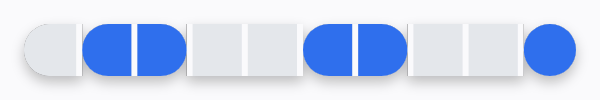
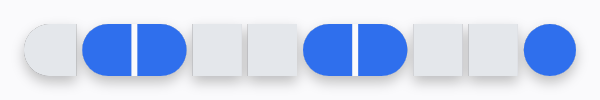
Stop the shadow from sealing unpainted gaps
A gap belongs to the shadow's silhouette only where the paint connects
the cells around it: under a painted divider, and inside an EACH_RUN
run, including the joint where a run flows into its partial. A
transparent gap between separate pieces is now an opening the
neighbours' blur spills into, so each piece casts like its own object.
Previously every gap was bridged, which enclosed the slit in shadow and
made an unpainted gap read as a painted divider line.

Repainting the divider now also invalidates the shadow cache, since the
colour's alpha decides whether the gaps are sealed.

diff --git a/segmented-compose/src/test/java/com/rachitgoyal/segmented/compose/SegmentedProgressBarComposeShadowTest.kt b/segmented-compose/src/test/java/com/rachitgoyal/segmented/compose/SegmentedProgressBarComposeShadowTest.kt
@@ -20,6 +20,7 @@ import androidx.compose.ui.test.onRoot
 import androidx.compose.ui.unit.dp
 import androidx.test.ext.junit.runners.AndroidJUnit4
 import com.google.common.truth.Truth.assertThat
+import com.rachitgoyal.segmented.CornerMode
 import com.rachitgoyal.segmented.ShadowTarget
 import org.junit.Rule
 import org.junit.Test
@@ -76,17 +77,26 @@ class SegmentedProgressBarComposeShadowTest {
     private var blur by mutableStateOf(4)
     private var target by mutableStateOf(ShadowTarget.ALL)
     private var gap by mutableStateOf(0)
+    private var gapColor by mutableStateOf(Color.Transparent)
+    private var corners by mutableStateOf(CornerMode.BAR_ENDS)
+    private var progress by mutableStateOf(mapOf<Int, Float>())
 
     private fun render(
         target: ShadowTarget = ShadowTarget.ALL,
         blur: Int = 4,
         lit: Set<Int> = setOf(1),
         gap: Int = 0,
+        gapColor: Color = Color.Transparent,
+        corners: CornerMode = CornerMode.BAR_ENDS,
+        progress: Map<Int, Float> = emptyMap(),
     ): Bitmap {
         this.target = target
         this.blur = blur
         this.lit = lit
         this.gap = gap
+        this.gapColor = gapColor
+        this.corners = corners
+        this.progress = progress
         if (!composed) {
             composed = true
             composeRule.setContent {
@@ -101,7 +111,10 @@ class SegmentedProgressBarComposeShadowTest {
                         onColor = ON_COLOR,
                         offColor = OFF_COLOR,
                         gap = this@SegmentedProgressBarComposeShadowTest.gap.dp,
+                        gapColor = this@SegmentedProgressBarComposeShadowTest.gapColor,
                         cornerRadius = 0.dp,
+                        cornerMode = this@SegmentedProgressBarComposeShadowTest.corners,
+                        segmentProgress = this@SegmentedProgressBarComposeShadowTest.progress,
                         shadow = this@SegmentedProgressBarComposeShadowTest.blur
                             .takeIf { it > 0 }
                             ?.let {
@@ -178,15 +191,55 @@ class SegmentedProgressBarComposeShadowTest {
         val aboveCell = image.shadowAt(LIT_X, ABOVE_BAR_Y)
 
         assertThat(aboveCell).isGreaterThan(0)
-        assertThat(aboveGap).isWithin(SHADE).of(aboveCell)
+        // An open gap may dip lighter above the slit, but never darker.
+        assertThat(aboveGap).isAtMost(aboveCell + SHADE)
     }
 
     @Test
-    fun `no shadow is drawn inside a gap`() {
-        // Otherwise a narrow gap fills in with blur from both sides and becomes
-        // exactly the divider line that leaving it transparent asked to be rid of.
+    fun `an unpainted gap is an opening the shadow spills into`() {
+        // The gap borders two separate pieces, so it must read as space between
+        // them: their blur falls in, exactly as it falls beside the bar's outer
+        // ends. Sealing it left a bright page-coloured slit that read as a
+        // painted divider line the moment a shadow surrounded it.
         val plain = render(blur = 0, gap = 4)
         val shadowed = render(gap = 4)
+
+        assertThat(plain.shadowAt(100, MID_BAR_Y)).isEqualTo(0)
+        assertThat(shadowed.shadowAt(100, MID_BAR_Y)).isGreaterThan(0)
+    }
+
+    @Test
+    fun `a gap inside an each_run run stays sealed`() {
+        // Within a run the squared corners paint one pill, and blur falling
+        // into its slit would draw exactly the divider line EACH_RUN exists to
+        // get rid of.
+        val plain = render(blur = 0, gap = 4, lit = setOf(1, 2), corners = CornerMode.EACH_RUN)
+        val shadowed = render(gap = 4, lit = setOf(1, 2), corners = CornerMode.EACH_RUN)
+
+        for (x in 99..101) {
+            assertThat(shadowed.getPixel(x, MID_BAR_Y)).isEqualTo(plain.getPixel(x, MID_BAR_Y))
+        }
+    }
+
+    @Test
+    fun `the gap where a run flows into its partial stays sealed too`() {
+        val plain = render(
+            blur = 0,
+            gap = 4,
+            corners = CornerMode.EACH_RUN,
+            progress = mapOf(2 to 0.5f),
+        )
+        val shadowed = render(gap = 4, corners = CornerMode.EACH_RUN, progress = mapOf(2 to 0.5f))
+
+        assertThat(shadowed.getPixel(100, MID_BAR_Y)).isEqualTo(plain.getPixel(100, MID_BAR_Y))
+    }
+
+    @Test
+    fun `a painted divider seals every gap`() {
+        // An opaque divider makes the bar one slab; shadow on the painted line
+        // would read as dirt.
+        val plain = render(blur = 0, gap = 4, gapColor = Color.White)
+        val shadowed = render(gap = 4, gapColor = Color.White)
 
         for (x in 99..101) {
             assertThat(shadowed.getPixel(x, MID_BAR_Y)).isEqualTo(plain.getPixel(x, MID_BAR_Y))

diff --git a/segmented/src/test/java/com/rachitgoyal/segmented/SegmentedProgressBarShadowTest.kt b/segmented/src/test/java/com/rachitgoyal/segmented/SegmentedProgressBarShadowTest.kt
@@ -202,7 +202,8 @@ class SegmentedProgressBarShadowTest {
     fun `a gap grows no dark tick above the bar`() {
         // Regression: with one blur per cell, the two neighbouring blurs met inside
         // the gap and added up, which read as a dark tick poking out above and
-        // below the bar at every gap. One blur of one shape cannot do that.
+        // below the bar at every gap. One blur of one shape cannot do that; an
+        // open gap may dip lighter above the slit, but never darker.
         val bar = newGappedBar()
         val image = render(bar)
 
@@ -210,15 +211,60 @@ class SegmentedProgressBarShadowTest {
         val aboveCell = Color.alpha(image.getPixel(LIT_X, ABOVE_BAR_Y))
 
         assertThat(aboveCell).isGreaterThan(0)
-        assertThat(aboveGap).isWithin(SHADE).of(aboveCell)
+        assertThat(aboveGap).isAtMost(aboveCell + SHADE)
     }
 
     @Test
-    fun `no shadow is drawn inside a gap`() {
-        // Otherwise a narrow gap fills in with blur from both sides and becomes
-        // exactly the divider line that leaving it transparent asked to be rid of.
+    fun `an unpainted gap is an opening the shadow spills into`() {
+        // The gap borders two separate pieces, so it must read as space between
+        // them: their blur falls in, exactly as it falls beside the bar's outer
+        // ends. Sealing it left a bright page-coloured slit that read as a
+        // painted divider line the moment a shadow surrounded it.
         val plain = render(newGappedBar { shadowRadius = 0f })
         val shadowed = render(newGappedBar())
+
+        assertThat(Color.alpha(plain.getPixel(GAP_X, MID_BAR_Y))).isEqualTo(0)
+        assertThat(Color.alpha(shadowed.getPixel(GAP_X, MID_BAR_Y))).isGreaterThan(0)
+    }
+
+    @Test
+    fun `a gap inside an each_run run stays sealed`() {
+        // Within a run the squared corners paint one pill, and blur falling
+        // into its slit would draw exactly the divider line EACH_RUN exists to
+        // get rid of.
+        val configure: SegmentedProgressBar.() -> Unit = {
+            enabledDivisions = listOf(1, 2)
+            cornerMode = CornerMode.EACH_RUN
+        }
+        val plain = render(newGappedBar { configure(); shadowRadius = 0f })
+        val shadowed = render(newGappedBar(configure))
+
+        for (x in GAP_X - 1..GAP_X + 1) {
+            assertThat(shadowed.getPixel(x, MID_BAR_Y)).isEqualTo(plain.getPixel(x, MID_BAR_Y))
+        }
+    }
+
+    @Test
+    fun `the gap where a run flows into its partial stays sealed too`() {
+        val configure: SegmentedProgressBar.() -> Unit = {
+            enabledDivisions = listOf(1)
+            cornerMode = CornerMode.EACH_RUN
+            setDivisionProgress(2, 0.5f)
+        }
+        val plain = render(newGappedBar { configure(); shadowRadius = 0f })
+        val shadowed = render(newGappedBar(configure))
+
+        assertThat(shadowed.getPixel(GAP_X, MID_BAR_Y))
+            .isEqualTo(plain.getPixel(GAP_X, MID_BAR_Y))
+    }
+
+    @Test
+    fun `a painted divider seals every gap`() {
+        // An opaque divider makes the bar one slab; shadow on the painted line
+        // would read as dirt.
+        val configure: SegmentedProgressBar.() -> Unit = { dividerColor = Color.WHITE }
+        val plain = render(newGappedBar { configure(); shadowRadius = 0f })
+        val shadowed = render(newGappedBar(configure))
 
         for (x in GAP_X - 1..GAP_X + 1) {
             assertThat(shadowed.getPixel(x, MID_BAR_Y)).isEqualTo(plain.getPixel(x, MID_BAR_Y))
@@ -314,6 +360,19 @@ class SegmentedProgressBarShadowTest {
         bar.setDivisionProgress(3, 0.9f)
 
         assertThat(shadowAt(bar, UNLIT_X, ABOVE_BAR_Y)).isGreaterThan(0)
+    }
+
+    @Test
+    fun `the shadow follows a divider colour change from one frame to the next`() {
+        // The divider's alpha decides whether the gaps are sealed into the
+        // silhouette, so repainting it must invalidate the cache.
+        val bar = newGappedBar { dividerColor = Color.WHITE }
+
+        render(bar) // primes the cache with the gaps sealed
+        bar.dividerColor = Color.TRANSPARENT
+
+        // Open gaps take the neighbours' spill; a stale sealed cache has none.
+        assertThat(shadowAt(bar, GAP_X, MID_BAR_Y)).isGreaterThan(0)
     }
 
     @Test

diff --git a/segmented/src/main/java/com/rachitgoyal/segmented/SegmentedProgressBar.kt b/segmented/src/main/java/com/rachitgoyal/segmented/SegmentedProgressBar.kt
@@ -352,6 +352,9 @@ public open class SegmentedProgressBar @JvmOverloads public constructor(
         set(@ColorInt value) {
             if (dividerPaint.color == value) return
             dividerPaint.color = value
+            // Whether the divider is painted decides whether the shadow seals
+            // the gaps, so the silhouette changes with the colour's alpha.
+            invalidateShadowCache()
             invalidate()
         }
 
@@ -1650,10 +1653,14 @@ public open class SegmentedProgressBar @JvmOverloads public constructor(
      *    bar. A shape at full shadow alpha under an anti-aliased fill edge showed
      *    through as a dark outline around every segment, and through anything
      *    translucent as dirt.
-     * 4. The gaps count as part of the silhouette, so a shadow is never drawn
-     *    *between* segments either. Otherwise a narrow gap fills in with blur from
-     *    both sides and becomes exactly the divider line that [CornerMode.EACH_RUN]
-     *    exists to get rid of.
+     * 4. A gap counts as part of the silhouette only where the paint actually
+     *    connects the two cells around it, see [gapIsConnected]: inside an
+     *    [CornerMode.EACH_RUN] run, where blur falling into the slit would draw
+     *    exactly the divider line that mode exists to get rid of, and under a
+     *    painted divider, which makes the bar one slab. A real opening is left
+     *    out of the silhouette entirely: the neighbours' blur spills into it,
+     *    so separate pieces cast like separate objects, instead of the shadow
+     *    sealing every slit and making an unpainted gap read as a painted line.
      *
      * [ShadowTarget] then chooses which cells contribute to the caster; a cell that
      * contributes nothing simply leaves that stretch of the outline unshadowed.
@@ -1728,6 +1735,11 @@ public open class SegmentedProgressBar @JvmOverloads public constructor(
 
         if (dividerSpan > 0f) {
             for (index in 1 until _divisions) {
+                // Only a gap inside one painted unit is sealed into the
+                // silhouette; a real opening is left out entirely, so the
+                // neighbours' blur spills into it and separate pieces read as
+                // separate objects instead of one slab with lines on it.
+                if (!gapIsConnected(index)) continue
                 scratchRect.set(
                     SegmentGeometry.dividerLeft(contentWidth, _divisions, dividerSpan, index),
                     bandTop,
@@ -1750,6 +1762,24 @@ public open class SegmentedProgressBar @JvmOverloads public constructor(
         canvas.clipOutPath(shadowClipPath)
         canvas.drawPath(shadowCastPath, shadowPaint)
         canvas.restoreToCount(saveCount)
+    }
+
+    /**
+     * Whether the gap before cell [index] sits inside one painted unit rather
+     * than being a real opening.
+     *
+     * A painted divider makes the whole bar one slab, so every gap is sealed
+     * into the silhouette. A transparent gap connects only inside a
+     * [CornerMode.EACH_RUN] run, whose squared corners paint it as a single
+     * pill, including the joint where a run flows into the partial division
+     * continuing it. Every other transparent gap is an opening between
+     * separate pieces, and the shadow treats them as such.
+     */
+    private fun gapIsConnected(index: Int): Boolean {
+        if (Color.alpha(dividerPaint.color) > 0) return true
+        return _cornerMode == CornerMode.EACH_RUN &&
+            isDivisionEnabled(index - 1) &&
+            (isDivisionEnabled(index) || partialFills[index] != null)
     }
 
     /**

diff --git a/segmented-compose/src/main/java/com/rachitgoyal/segmented/compose/SegmentedProgressBar.kt b/segmented-compose/src/main/java/com/rachitgoyal/segmented/compose/SegmentedProgressBar.kt
@@ -788,6 +788,24 @@ private class BarRenderer(
         return if (isRtl) roundsEnd to roundsStart else roundsStart to roundsEnd
     }
 
+    /**
+     * Whether the gap before cell [index] sits inside one painted unit rather
+     * than being a real opening.
+     *
+     * A painted divider makes the whole bar one slab, so every gap is sealed
+     * into the shadow's silhouette. A transparent gap connects only inside a
+     * [CornerMode.EACH_RUN] run, whose squared corners paint it as a single
+     * pill, including the joint where a run flows into the partial segment
+     * continuing it. Every other transparent gap is an opening between
+     * separate pieces, and the shadow treats them as such.
+     */
+    private fun gapIsConnected(index: Int): Boolean {
+        if (gapColor.alpha > 0f) return true
+        return cornerMode == CornerMode.EACH_RUN &&
+            (index - 1) in onSegments &&
+            (index in onSegments || partialOf(index) > 0f)
+    }
+
     /** The on colour for [index], tinted by whatever recurring animation runs. */
     private fun animatedOnColor(index: Int, recurringPhase: Float): Color {
         var color = onColorOf(index)
@@ -923,14 +941,19 @@ private class BarRenderer(
                 }
             }
 
-            // The gaps belong to the outline too, so that no shadow is drawn
-            // between two segments: a narrow gap otherwise fills in with blur from
-            // both sides and becomes the divider line EACH_RUN exists to remove. In
-            // the caster, only gaps between two contributing cells are bridged, so
-            // a run reads as one shape while a cell the target leaves out still
-            // breaks it.
+            // A gap belongs to the outline only where the paint actually
+            // connects the cells around it, see gapIsConnected: there, blur
+            // falling into the slit would draw exactly the divider line
+            // EACH_RUN exists to remove. A real opening is left out entirely,
+            // so the neighbours' blur spills into it and separate pieces cast
+            // like separate objects, instead of the shadow sealing every slit
+            // and making an unpainted gap read as a painted line. In the
+            // caster, only gaps between two contributing cells are bridged, so
+            // a run reads as one shape while a cell the target leaves out
+            // still breaks it.
             if (gapSpan > 0f && bandBottom > bandTop) {
                 for (index in 1 until divisions) {
+                    if (!gapIsConnected(index)) continue
                     if (casters && !(castsShadow(index - 1) && castsShadow(index))) continue
                     path.addRect(
                         Rect(

diff --git a/CHANGELOG.md b/CHANGELOG.md
@@ -54,6 +54,14 @@ working, source and binary alike, and `apiCheck` now enforces that in CI.
 
 ### Changed
 
+- **A shadow no longer seals unpainted gaps.** A gap belongs to the shadow's
+  silhouette only where the paint connects the cells around it: under a
+  painted divider, which makes the bar one slab, and inside an `EACH_RUN` run,
+  including the joint where a run flows into its partial. A transparent gap
+  between separate pieces is now an opening the neighbours' blur spills into,
+  so each piece casts like its own object. Previously the shadow bridged every
+  gap, which made an unpainted gap read as a painted divider line the moment
+  a shadow surrounded it.
 - **A shadow no longer forces a software layer.** The View renders the shadow
   into a cached bitmap rebuilt only when the silhouette changes and blits it
   each frame, so the view stays fully hardware accelerated; previously every
